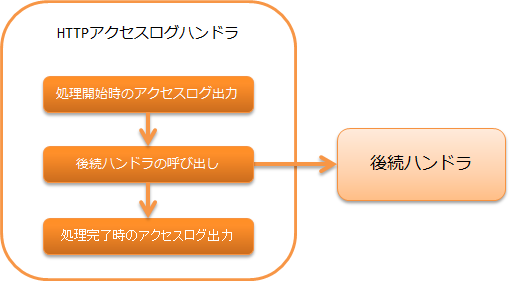
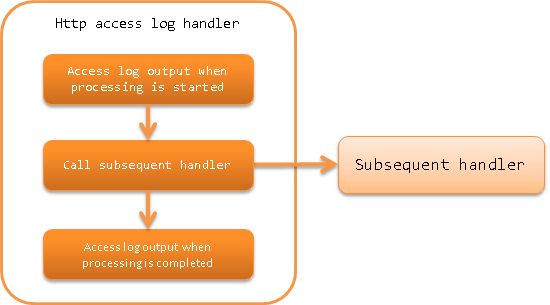
HTTPアクセスログハンドラページを英語化

Changed region(s): [[0.0, 0.0, 0.998, 1.0], [0.0881, 0.0569, 0.4697, 0.1423]]

diff --git a/en/application_framework/application_framework/handlers/web/http_access_log_handler.rst b/en/application_framework/application_framework/handlers/web/http_access_log_handler.rst
@@ -1,27 +1,27 @@
 .. _http_access_log_handler:
 
-HTTPアクセスログハンドラ
+HTTP Access Log Handler
 ==================================================
-.. contents:: 目次
+.. contents:: Table of contents
   :depth: 3
   :local:
 
-:ref:`HTTPアクセスログ <http_access_log>` を出力するハンドラ。
+This handler outputs the :ref:`HTTP access log <http_access_log>`.
 
-本ハンドラでは、以下の処理を行う。
+The handler performs the following processes.
 
-* リクエスト処理開始時のアクセスログ出力を行う
-* リクエスト処理完了時のアクセスログ出力を行う
+* Outputs access log at the start of the request process
+* Outputs access log on completion of the request process
 
-処理の流れは以下のとおり。
+The process flow is as follows.
 
 .. image:: ../images/HttpAccessLogHandler/flow.png
 
-ハンドラクラス名
+Handler class name
 --------------------------------------------------
 * :java:extdoc:`nablarch.common.web.handler.HttpAccessLogHandler`
 
-モジュール一覧
+Module list
 --------------------------------------------------
 .. code-block:: xml
 
@@ -30,18 +30,18 @@ HTTPアクセスログハンドラ
     <artifactId>nablarch-fw-web</artifactId>
   </dependency>
 
-制約
+Constraints
 --------------------------------------------------
 
-:ref:`thread_context_handler` より後ろに配置すること
-  このハンドラから呼ばれるログ出力の処理内では、通常 :java:extdoc:`ThreadContext <nablarch.core.ThreadContext>` に保持する内容が必要となる。
-  このため、 :ref:`thread_context_handler` より後ろに配置する必要がある。
+Place this handler after the :ref:`thread_context_handler`
+  In the log output process called from this handler, the contents normally retained in :java:extdoc:`ThreadContext <nablarch.core.ThreadContext>` are required.
+  Therefore, this handler must be placed after the :ref:`thread_context_handler`.
 
-:ref:`http_error_handler` より前に配置すること
-  また、完了時のログ出力にはエラーコードが必要となるため、 :ref:`http_error_handler` より前に配置する必要がある。
+Place this handler before the :ref:`http_error_handler`
+  Since an error code is required for log output at the time of completion, this handler must be placed before the :ref:`http_error_handler`.
 
 
-アクセスログ出力内容の切り替え
+Switch the contents of access log output
 --------------------------------------------------
 
-アクセスログの出力内容の切り替え方法は、 :ref:`log` および :ref:`http_access_log` を参照すること。
+For how to switch the output contents of the access log, see :ref:`log` and :ref:`http_access_log`.
